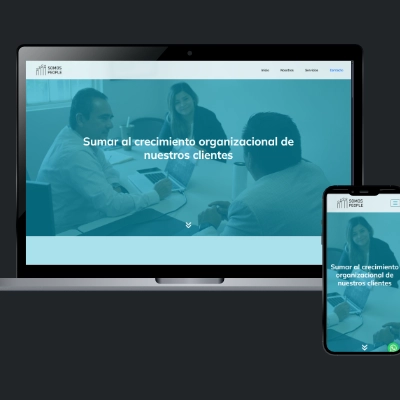
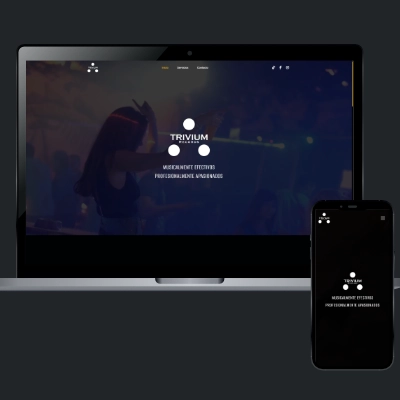
Update_24_10_25_001
Se actualizaron algunas imágenes para la parte del portafolio, algunas de ellas solo son para hacer pruebas en el caso de las credenciales y los celulares

diff --git a/index.html b/index.html
@@ -256,12 +256,12 @@
     <!-- Services End -->
 
 
-    <!-- Portfolio Start --
+    <!-- Portfolio Start -->
     <section id="portafolio" class="py-5 bg-dark text-white">
         <div class="container">
             <h2 class="text-center mb-4">Portafolio</h2>
 
-            <!- Tabs de categorías --
+            <!-- Tabs de categorías -->
             <ul class="nav nav-pills justify-content-center mb-4" id="portfolio-tabs">
                 <li class="nav-item"><button class="nav-link active" data-filter="all">Todos</button></li>
                 <li class="nav-item"><button class="nav-link" data-filter="web">Páginas Web</button></li>
@@ -269,9 +269,9 @@
                 <li class="nav-item"><button class="nav-link" data-filter="social">Redes Sociales</button></li>
             </ul>
 
-            <!- Grid de proyectos --
+            <!-- Grid de proyectos -->
             <div class="row" id="portfolio-grid">
-                <!- Página web ITBSA --
+                <!-- Página web ITBSA -->
                 <div class="col-md-3 mb-4 portfolio-item" data-category="web">
                     <div class="card portfolio-card bg-secondary text-white h-100">
                         <img src="img/portfolio-1.webp" class="card-img-top" alt="Proyecto Web" data-hover-src="img/portfolio-1-hover.webp">
@@ -282,10 +282,10 @@
                     </div>
                 </div>
 
-                <!- Ejemplo de diseño gráfico --
+                <!-- Ejemplo de diseño gráfico -->
                 <div class="col-md-3 mb-4 portfolio-item" data-category="design">
                     <div class="card portfolio-card bg-secondary text-white h-100">
-                        <img src="img/portfolio-1.jpg" class="card-img-top" alt="Branding" data-hover-src="img/portfolio-2-hover.webp">
+                        <img src="img/portfolio-2.webp" class="card-img-top" alt="Branding" data-hover-src="img/portfolio-2-hover.webp">
                         <div class="card-body">
                             <h5 class="card-title">Manual de Marca para Restaurante</h5>
                             <p class="card-text">Incluye logotipo, paleta de colores y papelería empresarial.</p>
@@ -293,10 +293,10 @@
                     </div>
                 </div>
 
-                <!- Ejemplo de redes sociales --
+                <!-- Ejemplo de redes sociales -->
                 <div class="col-md-3 mb-4 portfolio-item" data-category="social">
                     <div class="card portfolio-card bg-secondary text-white h-100">
-                        <img src="img/portfolio-1.jpg" class="card-img-top" alt="Redes Sociales" data-hover-src="img/portfolio-3-hover.webp">
+                        <img src="img/portfolio-3.webp" class="card-img-top" alt="Redes Sociales" data-hover-src="img/portfolio-3-hover.webp">
                         <div class="card-body">
                             <h5 class="card-title">Gestión de Instagram para Marca Fitness</h5>
                             <p class="card-text">Calendario de contenido, diseño de posts y estrategia de engagement.
@@ -305,10 +305,10 @@
                     </div>
                 </div>
 
-                <!- Página web Somos People --
+                <!-- Página web Somos People -->
                 <div class="col-md-3 mb-4 portfolio-item" data-category="web">
                     <div class="card portfolio-card bg-secondary text-white h-100">
-                        <img src="img/portfolio-2.webp" class="card-img-top" alt="Proyecto Web" data-hover-src="img/portfolio-4-hover.webp">
+                        <img src="img/portfolio-3.webp" class="card-img-top" alt="Proyecto Web" data-hover-src="img/portfolio-4-hover.webp">
                         <div class="card-body">
                             <h5 class="card-title">Sitio para Somos People</h5>
                             <p class="card-text">Diseño responsivo, optimizado para SEO y velocidad.</p>
@@ -316,10 +316,10 @@
                     </div>
                 </div>
 
-                <!- Ejemplo de redes sociales --
+                <!-- Ejemplo de redes sociales -->
                 <div class="col-md-3 mb-4 portfolio-item" data-category="social">
                     <div class="card portfolio-card bg-secondary text-white h-100">
-                        <img src="img/portfolio-1.jpg" class="card-img-top" alt="Redes Sociales" data-hover-src="img/portfolio-5-hover.webp">
+                        <img src="img/portfolio-4.webp" class="card-img-top" alt="Redes Sociales" data-hover-src="img/portfolio-5-hover.webp">
                         <div class="card-body">
                             <h5 class="card-title">Gestión de Instagram para Marca Fitness</h5>
                             <p class="card-text">Calendario de contenido, diseño de posts y estrategia de engagement.
@@ -328,10 +328,10 @@
                     </div>
                 </div>
 
-                <!- Ejemplo de redes sociales --
+                <!-- Ejemplo de redes sociales -->
                 <div class="col-md-3 mb-4 portfolio-item" data-category="social">
                     <div class="card portfolio-card bg-secondary text-white h-100">
-                        <img src="img/portfolio-1.jpg" class="card-img-top" alt="Redes Sociales" data-hover-src="img/portfolio-6-hover.webp">
+                        <img src="img/portfolio-4.webp" class="card-img-top" alt="Redes Sociales" data-hover-src="img/portfolio-6-hover.webp">
                         <div class="card-body">
                             <h5 class="card-title">Gestión de Instagram para Marca Fitness</h5>
                             <p class="card-text">Calendario de contenido, diseño de posts y estrategia de engagement.
@@ -340,18 +340,18 @@
                     </div>
                 </div>
 
-                <!- Página web Somos People --
+                <!-- Página web Trivium -->
                 <div class="col-md-3 mb-4 portfolio-item" data-category="web">
                     <div class="card portfolio-card bg-secondary text-white h-100">
-                        <img src="img/portfolio-2.webp" class="card-img-top" alt="Proyecto Web" data-hover-src="img/portfolio-7-hover.webp">
+                        <img src="img/portfolio-2.webp" class="card-img-top" alt="Proyecto Web" data-hover-src="img/portfolio-1-hover.webp">
                         <div class="card-body">
-                            <h5 class="card-title">Sitio para Somos People</h5>
+                            <h5 class="card-title">Sitio para Trivium Records</h5>
                             <p class="card-text">Diseño responsivo, optimizado para SEO y velocidad.</p>
                         </div>
                     </div>
                 </div>
 
-                <!- Ejemplo de redes sociales --
+                <!-- Ejemplo de redes sociales -->
                 <div class="col-md-3 mb-4 portfolio-item" data-category="social">
                     <div class="card portfolio-card bg-secondary text-white h-100">
                         <img src="img/portfolio-1.jpg" class="card-img-top" alt="Redes Sociales" data-hover-src="img/portfolio-8-hover.webp">
@@ -363,7 +363,7 @@
                     </div>
                 </div>
 
-                <!- Página web Somos People --
+                <!-- Página web Somos People -->
                 <div class="col-md-3 mb-4 portfolio-item" data-category="web">
                     <div class="card portfolio-card bg-secondary text-white h-100">
                         <img src="img/portfolio-2.webp" class="card-img-top" alt="Proyecto Web" data-hover-src="img/portfolio-9-hover.webp">
@@ -376,7 +376,7 @@
             </div>
         </div>
     </section>
-    <!- Portfolio End -->
+    <!-- Portfolio End -->
 
 
     <!-- Carousel Clientes Start -->

diff --git a/servicios/index.html b/servicios/index.html
@@ -191,8 +191,8 @@
     <!-- Services Start -->
     <section class="py-5">
         <div class="container pt-5 pb-3">
-            <h1 class="display-4 text-uppercase text-white text-center mb-5" data-aos="fade-in" data-aos-delay="100"
-                data-aos-duration="1000" data-aos-once="true">Servicios</h1>
+            <!-- <h1 class="display-4 text-uppercase text-white text-center mb-5" data-aos="fade-in" data-aos-delay="100"
+                data-aos-duration="1000" data-aos-once="true">Servicios</h1> -->
             <div class="row">
                 <div class="col-lg-4 mb-2" data-aos="fade-up" data-aos-delay="100" data-aos-duration="1000">
                     <div class="service-item rounded p-5 mb-4">
